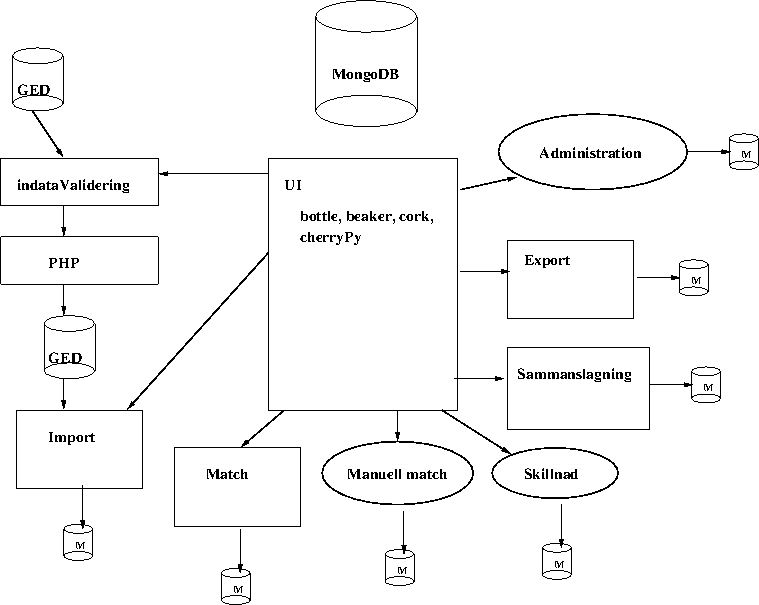
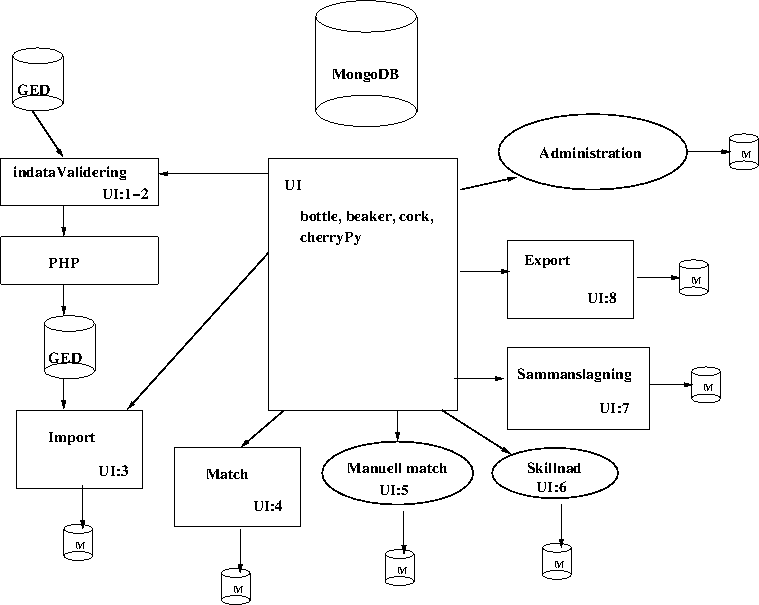
Updates

diff --git a/Documentation/gedMerge.tex b/Documentation/gedMerge.tex
@@ -32,6 +32,8 @@ cherryPy (http://www.cherrypy.org/) webserver, libsvm
 \section{Översikt, arbetsflöde}
 \begin{figure}[htb]
 \includegraphics[width=\textwidth,height=11cm]{openRGD}
+\caption{Översikt openRGD. Rektanglar: externa program; Ovaler:
+  funktioner i UI}
 \end{figure}
 
 Systemet består av (UI-numreringen hänvisar till sidan ``Startsida -
@@ -39,28 +41,28 @@ arbetsflöde'' i Web-gränssnittet):
 \begin{itemize}
 \item Web-gränssnitt - \verb+UI.py+  se http://rgd.eit.lth.se:8085 och avsnitt \ref{UI} nedan
 \item Indatavalidering av Gedcom-fil - \verb+indataValidering.py+
-  (UI 1-2)\\
+  (UI:1-2)\\
 huvudsakligen en wrapper som anropar ett antal PHP-program som
 Carl-Johan Gustafsson har skrivit.
-\item Import av Gedcom till databas - \verb+importGedcom.py+ (UI 3) - se
+\item Import av Gedcom till databas - \verb+importGedcom.py+ (UI:3) - se
   avsnitt \ref{import} nedan
-\item Maskinell matchning av två databaser - \verb+match.py+ (UI 4) - se
+\item Maskinell matchning av två databaser - \verb+match.py+ (UI:4) - se
   avsnitt \ref{match} nedan
 \item Manuell matchning/korrigering - intern funktion i
-  Web-gränssnittet (UI 5)
+  Web-gränssnittet (UI:5)
 \item Visa skillnader - intern funktion i
-  Web-gränssnittet (UI 6)
-\item Sammanslagning av två databaser - \verb+merge.py+ (UI 7) - se
+  Web-gränssnittet (UI:6)
+\item Sammanslagning av två databaser - \verb+merge.py+ (UI:7) - se
   avsnitt \ref{merge} nedan
 \item Export av en databas i Gedcom-format - \verb+exportGedcom.py+
-  (UI 8) - se avsnitt \ref{export} nedan
+  (UI:8) - se avsnitt \ref{export} nedan
 \end{itemize}
 
 Dessutom finns ett antal globala variabler och rutiner i filerna
 \begin{itemize}
 \item \verb+common.py+ globala definitioner och variabler, mongodb-klienter
 \item \verb+graphUtils.py+ används i Web-gränssnitt 
-\item \verb+importUtil.py+ används vid import av Gedcom-fil
+%\item \verb+importUtil.py+ används vid import av Gedcom-fil
 \item \verb+luceneUtils.py+ används för hantering av Lucene-databaser
 \item \verb+matchtext.py+ används vid matchning för att ta fram texter
   för indexering i Lucene
@@ -84,16 +86,15 @@ möjligt att komma åt värdet.
 Ett värde kan vara data, en lista \verb+[ ]+ eller en nästlad
 'namn/nyckel - värde' struktur \verb+{ }+. En lista kan innehålla
 värden eller nästlade listor/'namn/nyckel - värde' strukturer. Ett enkelt exempel (men kanske
-inte användbart) på hur en familj (med man, hustru och 2 barn) kan representeras i ett dokument:
+inte användbart) på hur en familj (med man Anders, hustru Kajsa och 2
+barn Hans, Else) kan representeras i ett dokument:
 \begin{verbatim}
 {
   "man": {
     'namn': 'Anders Oskarsson',
     'ålder': 47
-  }
-  'hustru': {
-    'namn': 'Kajsa Nilsson',
-  }
+  },
+  'hustru': { 'namn': 'Kajsa Nilsson' },
   'barn': [
             { 'namn': 'Hans'},
             { 
@@ -122,7 +123,7 @@ också vilken databas som är matchad. T.ex. databasen
 \verb+RGDadm+, som är tänkt att
 innehålla bl.a. information om bidragsgivare. Dessutom innehåller den
 en collection, \verb+seq+, som används för att generera systemunika ID av
-olika typer som identifieras av ett prefix ('P\_', 'F\_', 'A\_').
+olika typer (person, familj, admin) som identifieras av ett prefix ('P\_', 'F\_', 'A\_').
 
 \subsection{Collection: \tt persons}
 Innehåller id, namn, kön, född, och död för personer.
@@ -195,9 +196,9 @@ Innehåller familje-data som id, giftermål, och relationslänkar (man, hustru, 
 }
 \end{verbatim}
 \subsubsection{Beskrivning}
-\verb+refId, RGDid+ som ovan
+\verb+refId, RGDid, normPlaceUid+ som ovan
 
-\verb+normPlaceUid+ som ovan
+\verb+husb, wife, children+ pekare till object i \verb+persons+
 
 \verb+husbOrgId, wifeOrgId, childrenOrgId+ används inte längre och kan
 förmodligen tas bort.
@@ -206,7 +207,7 @@ förmodligen tas bort.
 Innehåller orginaldata (inklusive Gedcom-rader) från den importerade
 Gedcomfilen.
 
-\subsubsection{Exempel type admin}
+\subsubsection{Exempel type \tt admin}
 Ska innehålla koppling till bidragsgivare och specifikt bidrag. Nu
 används filnamnet på den uppladdade Gedcom-filen som identifikation.
 \begin{verbatim}
@@ -219,7 +220,7 @@ används filnamnet på den uppladdade Gedcom-filen som identifikation.
 }
 \end{verbatim}
 
-\subsubsection{Exempel type person}
+\subsubsection{Exempel type \tt person}
 \begin{verbatim}
 {
   "_id" : ObjectId("54e5c226a9bcf10adfa93809"),
@@ -271,7 +272,7 @@ används filnamnet på den uppladdade Gedcom-filen som identifikation.
 }
 \end{verbatim}
 {\bf Beskrivning}\\
-som för type person ovan.
+som för type {\tt person} ovan.
 
 \subsection{Matchning temporär collection: \tt matches}
 \subsubsection{Exempel}
@@ -298,12 +299,13 @@ som för type person ovan.
 }
 \end{verbatim}
 {\tt Beskrivning}\\
-\verb+workid, matchid+ pekar på ett dokument i \verb+persons+
+\verb+workid, matchid+ pekar på ett dokument i \verb+persons+ (vid
+matchning av DBI mot DBII är workid i DBI och matchid i DBII
 
 \verb+score, familysim, nodesim, svmscore+ är olika mått på likhet
 mellan de två personerna.
 
-\verb+status+ är status på matchningen (se nedan \ref{match}).
+\verb+status+ är status på matchningen (se nedan avsnitt \ref{match}).
 
 \subsection{Matchning temporär collection: \tt fam\_matches}
 \subsubsection{Exempel}
@@ -399,7 +401,8 @@ görs med programbiliteket simplepyged
 (https://github.com/dijxtra/simplepyged).
 \item Normaliserade värden på datum, namn, och ort tas från
   \verb+date.dat+, \verb+name.dat+, och \verb+plac.dat+ genererade
-  under indatavalideringen.
+  under indatavalideringen.\\
+\verb+sour.dat+
 \item Alla personer lagras i databasens collection \verb+persons+ och \verb+originalData+.
 \item Alla familjer med mer än 1 medlem (KOLLA??) lagras i databasens collection
   \verb+families+ och \verb+originalData+.
@@ -415,7 +418,7 @@ Beskrivning av matchning av en databas (work, DBI) mot en annan
 (match, DBII). OBS ordningen på databaserna är signifikant - det blir
 olika resultat om databas A matchas mot B jämfört med matchning av
 databas B mot A. Detta beror bl.a. på hur matchnings-kandidater väljs
-ut och hur likhets-värden mellan personer beräknas.
+ut och vilken sök-score dom får (se nedan avsnitt \ref{kand}).
 
 Tiden för en matchning är linjärt beroende på storleken hos databas
 DBI men (i stort sett) oberoende av storleken på databas DBII.
@@ -515,7 +518,7 @@ MotherDDate18200418 MotherBNPlace3944 Father/Nilsson/ FatherDNPlace904
 FatherDDate18180123 MotherDDateY1820
 \end{verbatim}
 Observera att textrepresentationen innehåller en del familje-data (för
-personens föräldrar) om den finns tillgänglig.
+personens föräldrar Father*, Mother*) om den finns tillgänglig.
 
 \subsubsection{SVM klassificering personer}\label{svm}
 Support Vector Machines, förkortat SVM,
@@ -588,7 +591,7 @@ ges status 'Match' annars ges status 'Manuell'.
 
 {\bf FamilySim} Ger ett värde mellan -1 (helt olika) och 1 (helt lika)\\
 \begin{itemize}
-\item Föräldrar NodeSim (om inga föräldrar finns avsluta med värde 0)
+\item Föräldrar NodeSim (om inga föräldrar finns 0)
 \item Barn NodeSim
 \item Giftermål
 \begin{itemize}
